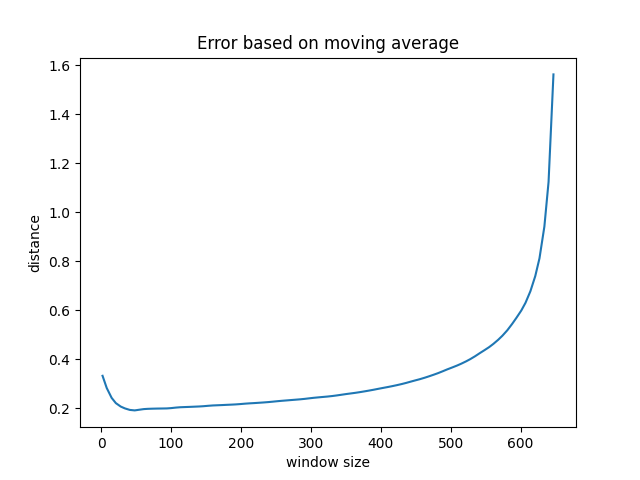
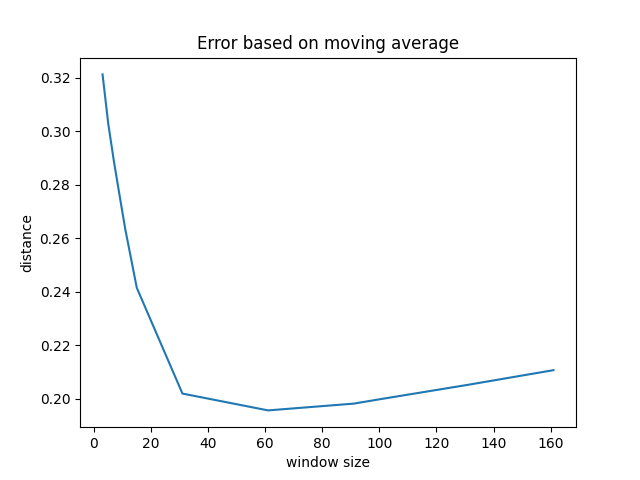
update

diff --git a/Codigos/asignacion1/distancia.py b/Codigos/asignacion1/distancia.py
@@ -64,7 +64,10 @@ for measure_path in measure_paths:
         (save_path / measure_path).mkdir(exist_ok=True, parents=True)
 
         distances = []
-        for window in np.linspace(2, len(interleave), 100).astype(int):
+
+        windows = [3, 5, 7, 9, 11, 15, 31, 61, 91, 101, 131, 161]
+        # np.linspace(2, len(interleave), 100).astype(int)
+        for window in windows:
             interleave_rolling = interleave.rolling(window=window, min_periods=1).mean()[window:]
             D = distance(interleave_rolling['reference'], interleave_rolling['measure'])
             distances.append([window, D])
